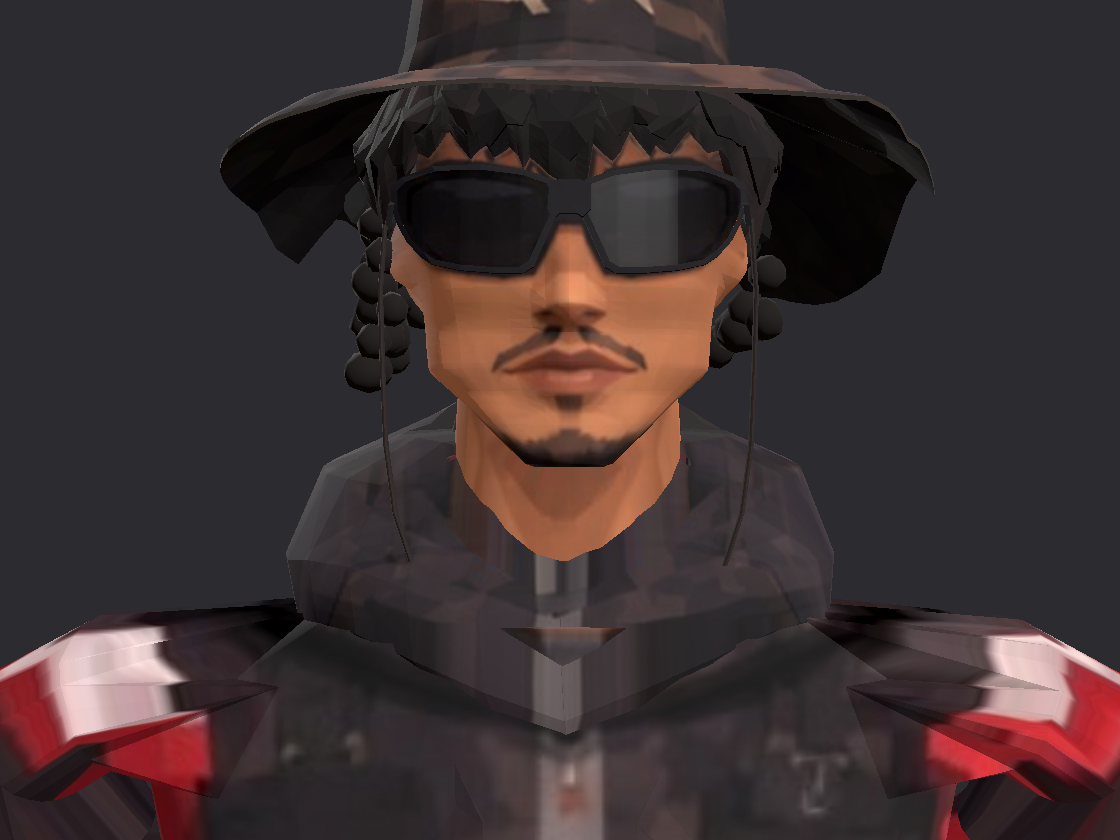
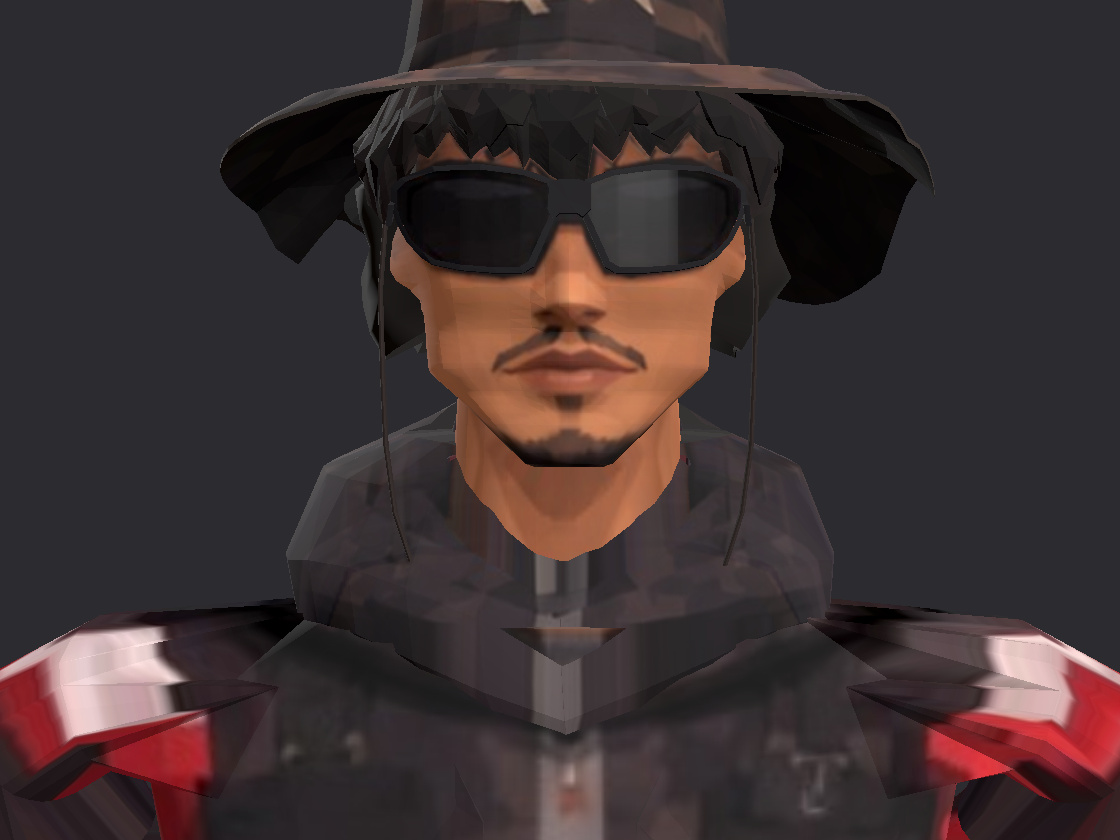
Troca bolinhas do cabelo por touca continua com ondulacao de cachos
hair_curls.gd passa a gerar uma malha continua presa ao osso head, com
ondulacao na borda, sem volume de fone nas laterais e com a frente livre.
Atualiza os renders e o VALIDACAO_REFERENCIA.md. A textura de cachos da
referencia ainda nao foi aplicada.

Claude-Session: https://claude.ai/code/session_01SbPjzQDrXqmreyexuEKpnZ

Changed region(s): [[0.625, 0.2786, 0.7188, 0.4333], [0.3125, 0.2167, 0.375, 0.4643]]

diff --git a/VALIDACAO_REFERENCIA.md b/VALIDACAO_REFERENCIA.md
@@ -60,4 +60,11 @@ Nenhuma alteração de malha, osso ou textura foi feita nesta etapa. Este commit
 - Novo `pescador_v29/hair_curls.gd`: 64 blocos de cabelo presos ao osso `head` por `BoneAttachment3D`, nunca alterando a malha do GLB, os pesos nem o rig.
 - `pescador_v29/pescador_scene.gd` chama `HairCurls.attach` para cada `Skeleton3D`.
 - Renders atualizados em `validacao/renders_godot_4_4_1/`. Na nuca e nas laterais, o volume agora aparece abaixo da aba do chapéu. A frente do rosto fica limpa.
-- Limitação: os blocos ainda parecem bolinhas separadas. A referência tem uma massa de cabelo contínua, então a silhueta ainda não está igual.
+- Limitação da etapa anterior: os blocos pareciam bolinhas separadas.
+
+## Cabelo em touca contínua (etapa 2)
+
+- `hair_curls.gd` agora gera uma malha contínua em forma de touca (44×14 vértices), presa ao osso `head`, com ondulação de cachos na borda e cor levemente variável.
+- Recuo das laterais: o volume de "fone de ouvido" na altura das orelhas sumiu, e a frente abaixo da linha dos olhos fica livre.
+- Ainda falta: a textura de cachos da referência. A superfície está lisa demais para bater com a massa cacheada, então a silhueta ainda não está igual.
+- Próximo passo: cartões com textura de cachos (alpha) sobre a touca, ou ondulação de maior frequência com normal map.
